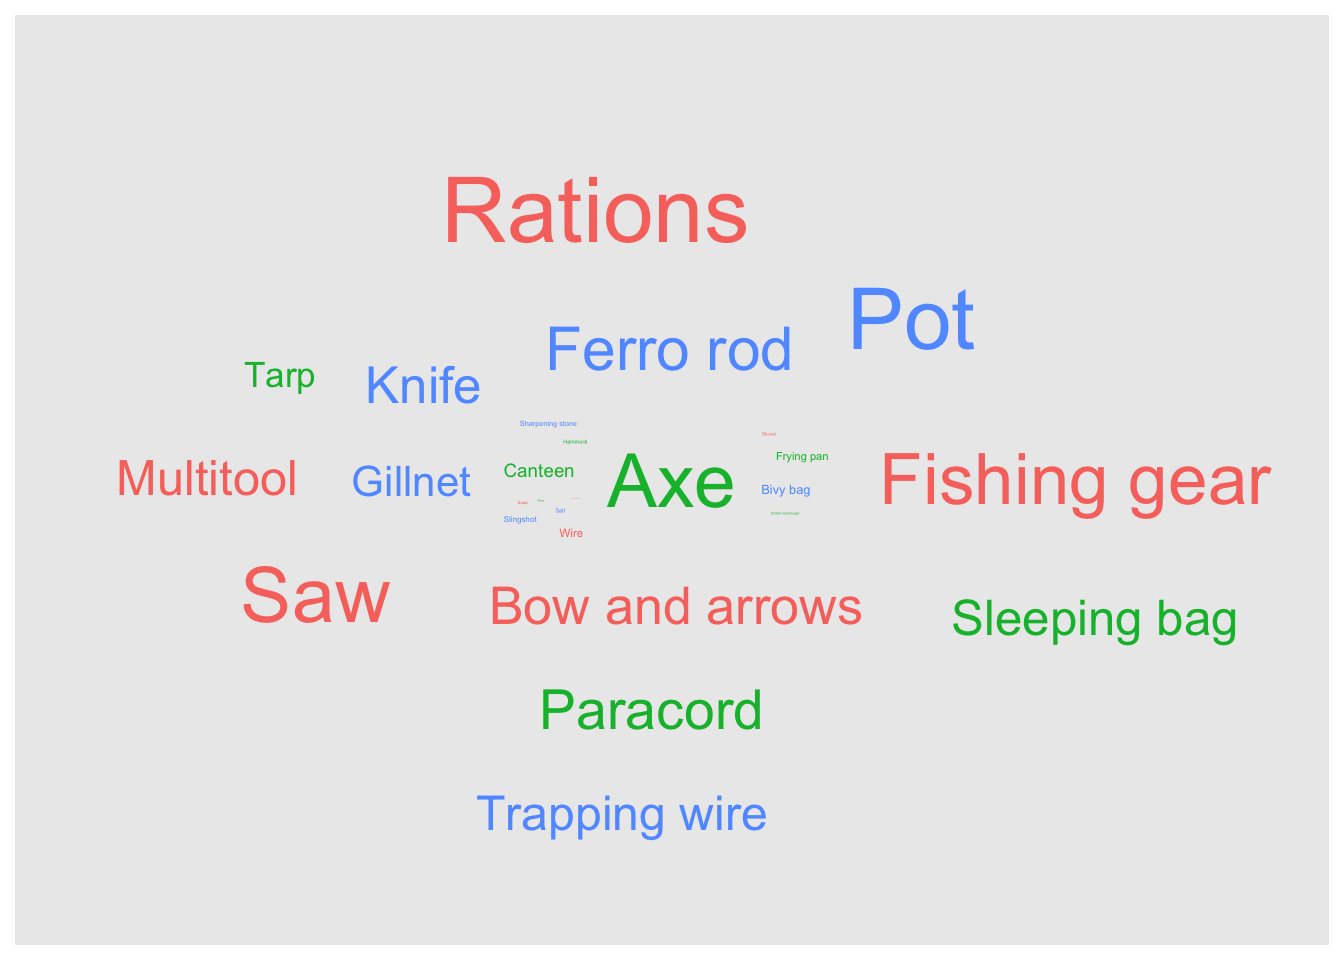
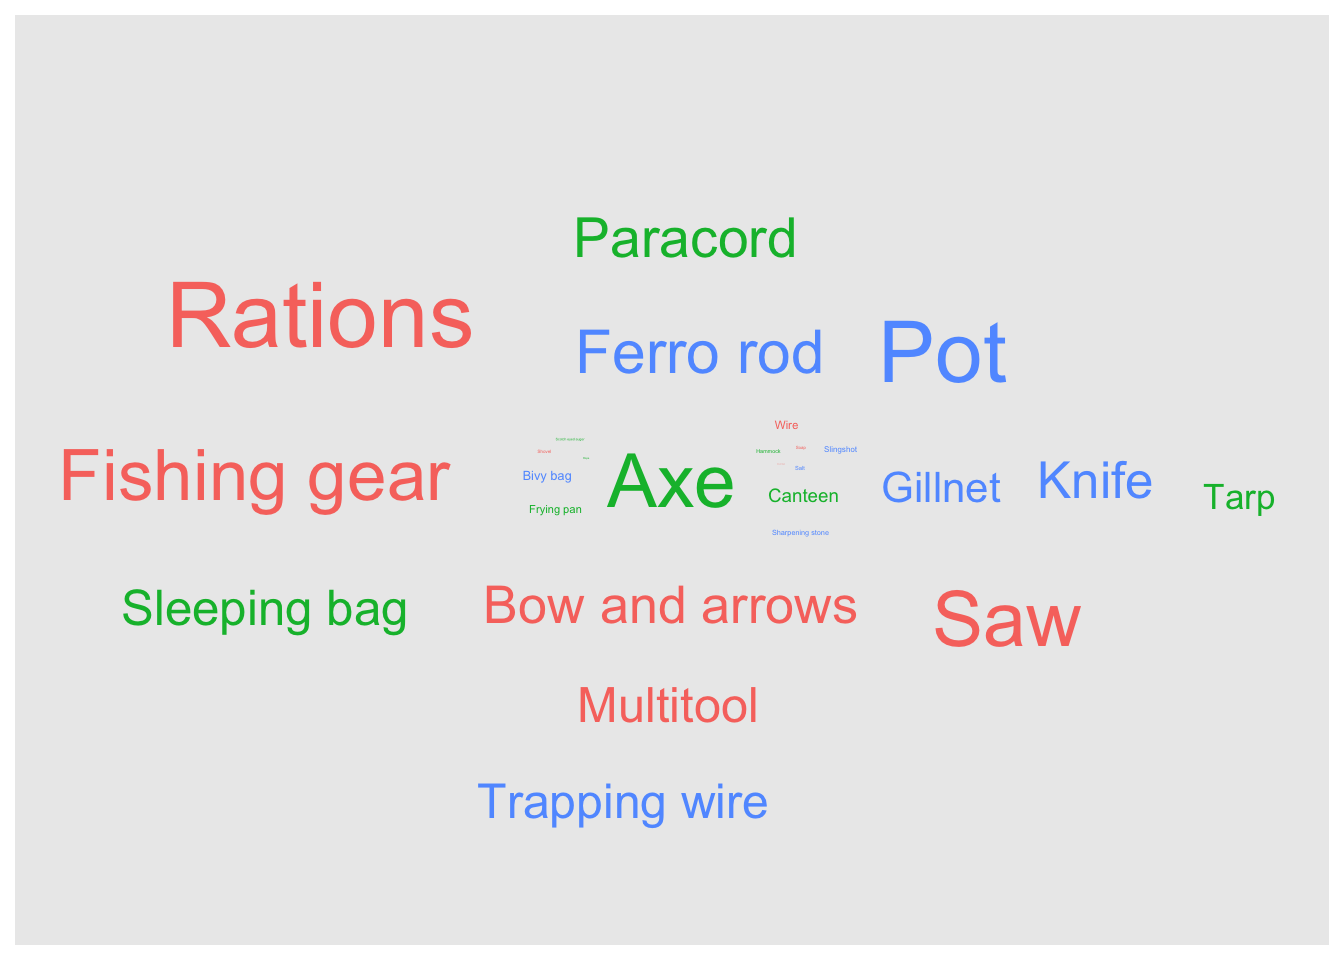
Corrected image

diff --git a/_site/tidytuesday/1_25_23/index.html b/_site/tidytuesday/1_25_23/index.html
@@ -215,7 +215,7 @@ code span.wa { color: #60a0b0; font-weight: bold; font-style: italic; } /* Warni
   </div>
   
 
-</header><p>For today’s #TidyTuesday (January 25, 2023)<a href="#fn1" class="footnote-ref" id="fnref1" role="doc-noteref"><sup>1</sup></a>, we are looking at the survival TV series <em>Alone</em> which has run since 2015 across 10 seasons. The premise of the show is to put individuals into sparsely populated areas as they try to survive. For today’s visualization we will be looking at the <code>loadouts</code> data set in the <code>alone</code> package<a href="#fn2" class="footnote-ref" id="fnref2" role="doc-noteref"><sup>2</sup></a>. This data set contains information on the participant, the season in which the participant appeared on the show, and the discarded items.</p>
+</header><p>For today’s #TidyTuesday (January 25, 2023)<a href="#fn1" class="footnote-ref" id="fnref1" role="doc-noteref"><sup>1</sup></a>, we are looking at the survival TV series <em>Alone</em> which has run since 2015 across 10 seasons. The premise of the show is to put individuals into sparsely populated areas as they try to survive. For today’s visualization we will be looking at the <code>loadouts</code> data set in the <code>alone</code> package<a href="#fn2" class="footnote-ref" id="fnref2" role="doc-noteref"><sup>2</sup></a>. This data set contains information on the participant, the season in which the participant appeared on the show, and the most commonly used items.</p>
 <p>For this visualization, creating a word cloud would be a very interesting way to visualize which items are most commonly discarded. To attempt this visualization we will need the <code>tidyverse</code>,<code>ggtext</code>, and <code>ggwordcloud</code> packages. To start we want to download the data. You can find the file <a href="https://github.com/rfordatascience/tidytuesday/blob/master/data/2023/2023-01-24/loadouts.csv">here</a>. The code below shows loading in the appropriate packages and reading in the data</p>
 <div class="cell">
 <div class="sourceCode" id="cb1"><pre class="downlit sourceCode r code-with-copy"><code class="sourceCode R"><span><span class="kw"><a href="https://rdrr.io/r/base/library.html">library</a></span><span class="op">(</span><span class="va"><a href="https://tidyverse.tidyverse.org">tidyverse</a></span><span class="op">)</span></span>
@@ -224,7 +224,7 @@ code span.wa { color: #60a0b0; font-weight: bold; font-style: italic; } /* Warni
 <span></span>
 <span><span class="va">data</span> <span class="op">&lt;-</span> <span class="fu"><a href="https://rdrr.io/r/utils/read.table.html">read.csv</a></span><span class="op">(</span><span class="st">"loadouts.csv"</span><span class="op">)</span></span></code><button title="Copy to Clipboard" class="code-copy-button"><i class="bi"></i></button></pre></div>
 </div>
-<p>After we have downloaded the data, we will need to modify the data a little bit to get some of the information that we will need in the format that we need it in. For the word cloud we need to aggregate the items and count the number of times said item was discarded. To do this we will need to sum the number of items by group. That code can be shown below</p>
+<p>After we have downloaded the data, we will need to modify the data a little bit to get some of the information that we will need in the format that we need it in. For the word cloud we need to aggregate the items and count the number of times said item taken. To do this we will need to sum the number of items by group. That code can be shown below</p>
 <div class="cell">
 <div class="sourceCode" id="cb2"><pre class="downlit sourceCode r code-with-copy"><code class="sourceCode R"><span><span class="va">data</span> <span class="op">&lt;-</span> <span class="va">data</span> <span class="op"><a href="https://magrittr.tidyverse.org/reference/pipe.html">%&gt;%</a></span> </span>
 <span>  <span class="fu"><a href="https://dplyr.tidyverse.org/reference/mutate.html">mutate</a></span><span class="op">(</span>item <span class="op">=</span> <span class="fu"><a href="https://rdrr.io/r/base/factor.html">as.factor</a></span><span class="op">(</span><span class="va">item</span><span class="op">)</span><span class="op">)</span> <span class="op"><a href="https://magrittr.tidyverse.org/reference/pipe.html">%&gt;%</a></span></span>
@@ -251,7 +251,7 @@ code span.wa { color: #60a0b0; font-weight: bold; font-style: italic; } /* Warni
 <p>To add the title, caption and alt text, we can use the code shown below</p>
 <div class="cell">
 <div class="sourceCode" id="cb4"><pre class="downlit sourceCode r code-with-copy"><code class="sourceCode R"><span><span class="va">p</span> <span class="op">&lt;-</span> <span class="va">p</span>  <span class="op">+</span> </span>
-<span>  <span class="fu"><a href="https://ggplot2.tidyverse.org/reference/labs.html">labs</a></span><span class="op">(</span>title <span class="op">=</span> <span class="st">"**Figure 1**. Word Cloud of Commonly Discarded Items in *Alone*"</span>,</span>
+<span>  <span class="fu"><a href="https://ggplot2.tidyverse.org/reference/labs.html">labs</a></span><span class="op">(</span>title <span class="op">=</span> <span class="st">"**Figure 1**. Word Cloud of Commonly Used Items in *Alone*"</span>,</span>
 <span>       caption <span class="op">=</span> <span class="st">"Note: Data courtesy of Daniel Oehm"</span>,</span>
 <span>       alt <span class="op">=</span> <span class="fu"><a href="https://rdrr.io/r/base/paste.html">paste</a></span><span class="op">(</span><span class="st">"A word cloud of mostly commonly discarded items on Alone"</span><span class="op">)</span><span class="op">)</span> <span class="op">+</span> </span>
 <span>  <span class="fu"><a href="https://ggplot2.tidyverse.org/reference/ggtheme.html">theme_minimal</a></span><span class="op">(</span><span class="op">)</span> <span class="op">+</span> </span>

diff --git a/_site/tidytuesday.html b/_site/tidytuesday.html
@@ -193,7 +193,7 @@ ul.task-list li input[type="checkbox"] {
 
 <div class="quarto-listing quarto-listing-container-default" id="listing-listing">
 <div class="list quarto-listing-default">
-<div class="quarto-post image-right" data-index="0" data-categories="Alone,R,TidyTuesday" data-listing-date-sort="1674622800000" data-listing-file-modified-sort="1674614943864" data-listing-reading-time-sort="3.265">
+<div class="quarto-post image-right" data-index="0" data-categories="Alone,R,TidyTuesday" data-listing-date-sort="1674622800000" data-listing-file-modified-sort="1674615433413" data-listing-reading-time-sort="3.27">
 <div class="body">
 <a href="./tidytuesday/1_25_23/index.html">
 <h3 class="no-anchor listing-title">
